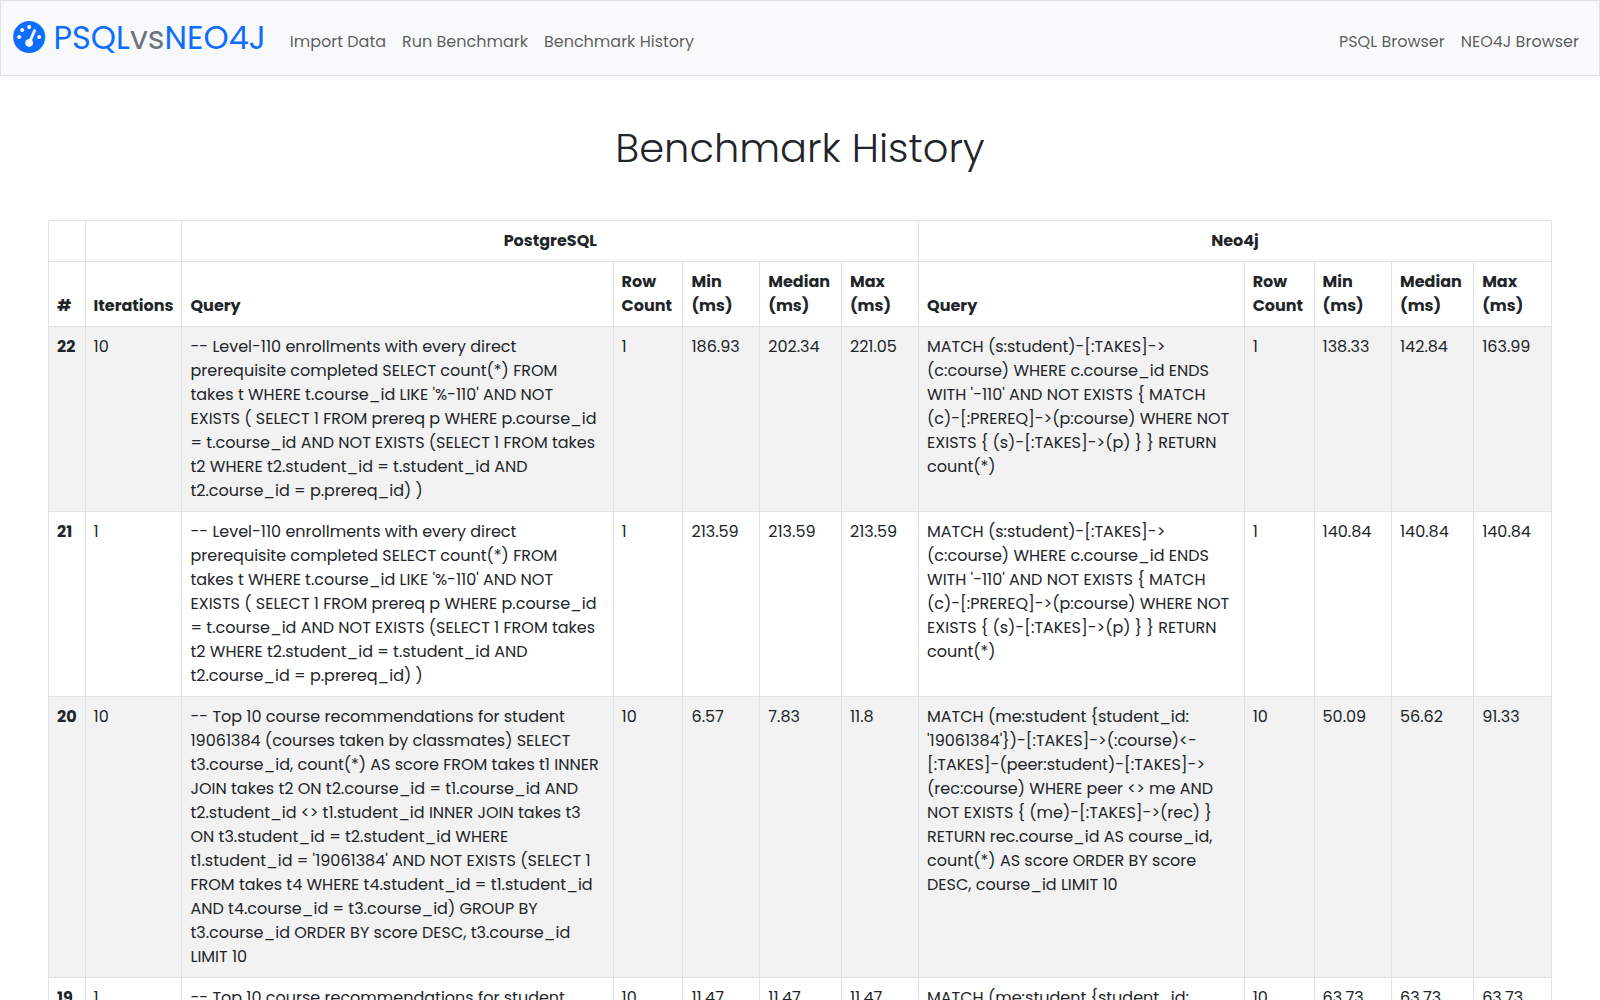
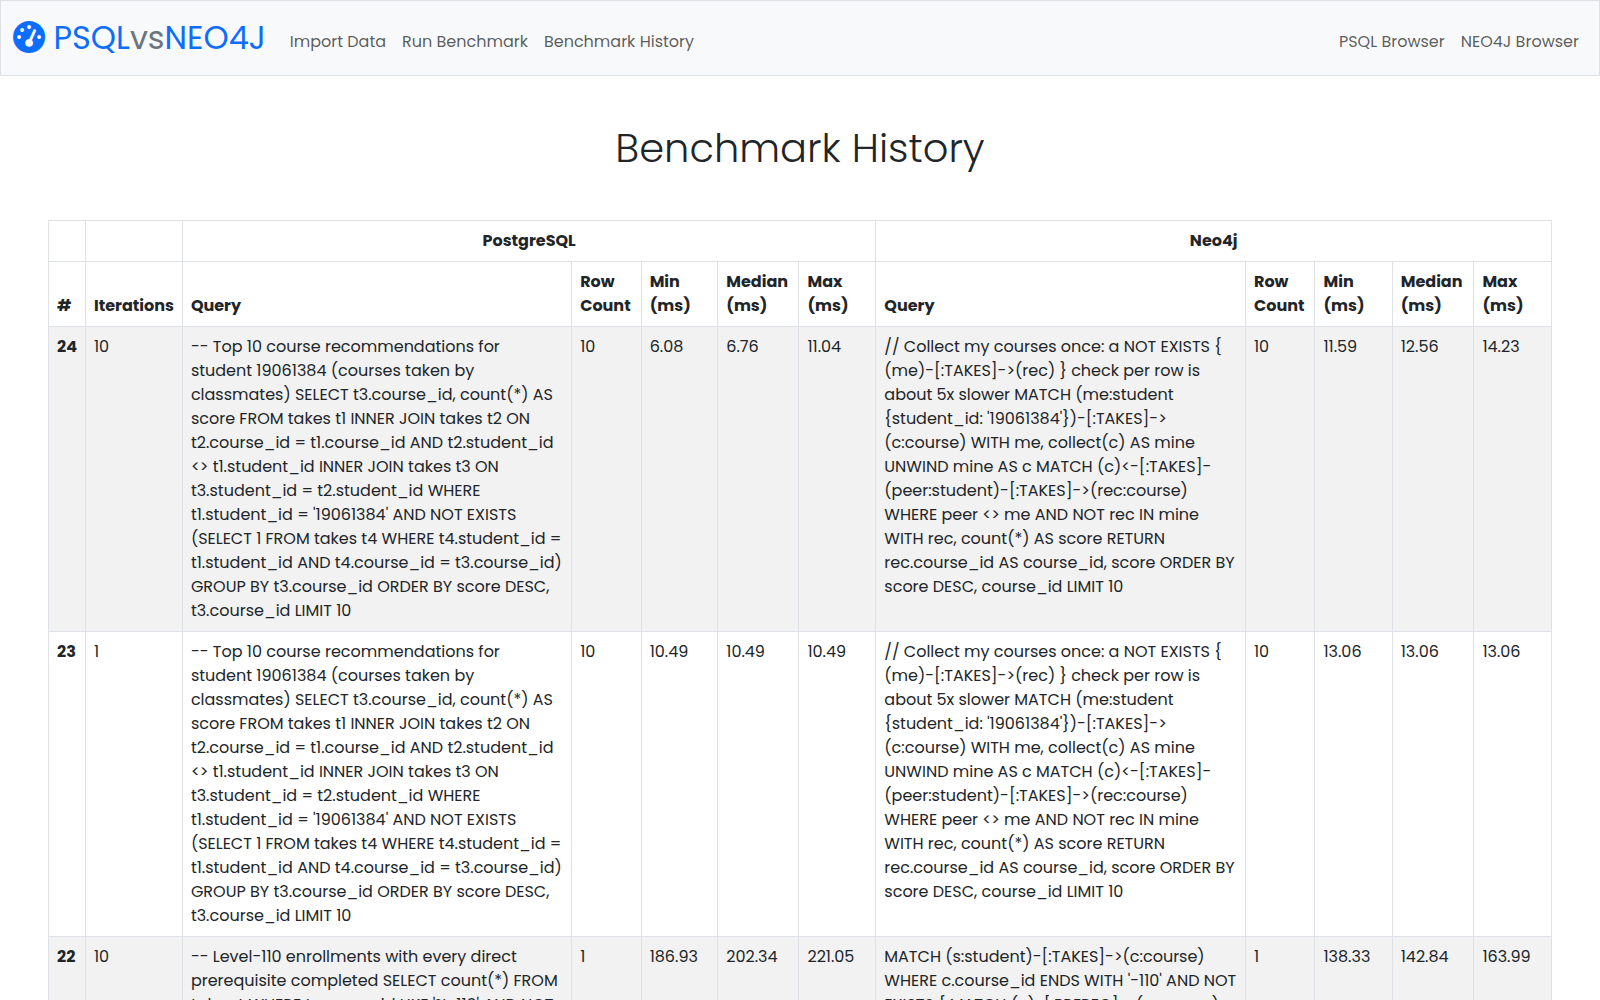
docs: explain where PostgreSQL and Neo4j each win
Compare the storage and execution models, explain why benchmarking
several query shapes matters, and add engine-only timings that separate
Neo4j's fixed per-query cost from traversal work.

diff --git a/README.md b/README.md
@@ -10,7 +10,7 @@
 
 Run the same question as SQL and as Cypher, side by side, and compare how fast PostgreSQL and Neo4j answer it.
 
-[Overview](#overview) • [Getting started](#getting-started) • [Sample benchmarks](#sample-benchmarks) • [How it works](#how-it-works)
+[Overview](#overview) • [Getting started](#getting-started) • [PostgreSQL vs Neo4j](#postgresql-vs-neo4j) • [Sample benchmarks](#sample-benchmarks) • [How it works](#how-it-works)
 
 ![Benchmark History page](docs/images/benchmark-history.png)
 
@@ -70,6 +70,28 @@ Then open http://localhost:5000:
 
 Credentials live in `.env`. `task up` creates it from [`.env.example`](.env.example).
 
+## PostgreSQL vs Neo4j
+
+Both databases can answer the same questions. They store the data differently, and that decides which questions are cheap.
+
+| | PostgreSQL | Neo4j |
+| --- | --- | --- |
+| Data model | Tables of rows. A relationship is a foreign-key value. | Nodes and relationships, both stored as records. |
+| Following a relationship | Matched at query time, with an index lookup or a hash join. | Each node record points to its relationships, so a hop is a pointer lookup ("index-free adjacency"). |
+| How a query runs | Set-based: the planner joins whole tables and picks the strategy. | Pattern-based: start at some nodes, then walk outward. |
+| Cost grows with | The size of the tables involved. | The part of the graph the query touches. |
+| Strong at | Scans, filters, joins and aggregates over many rows. | Multi-hop and variable-depth traversals, paths, neighbourhoods. |
+| Weak at | Recursive queries. Each level is another self-join, and the work piles up with depth. | Whole-dataset aggregates, plus a fixed cost of about 1.5 ms per query. |
+
+### Why benchmark different use cases
+
+- **There is no overall winner.** Run only the aggregate queries and PostgreSQL looks 2–4× faster. Run only shortest path and Neo4j looks 17× faster. Both are true, and each on its own is misleading.
+- **The crossover point is what matters.** On this data, Neo4j only starts winning past about 10 levels of traversal. Knowing which side of that line your real queries fall on is more useful than any single score.
+- **Fixed costs and growth rates are different things.** Neo4j pays more to start each query but less per hop. That matters for an API that makes hundreds of tiny lookups per request, and it doesn't matter for one deep traversal.
+- **How you write the query matters.** The first, natural Cypher for recommendations was 5× slower than an equivalent rewrite. PostgreSQL's planner fixed the same pattern on its own. A benchmark of only one shape would never show this.
+
+Rule of thumb from these results: if most of your queries are reports, filters and aggregates, use PostgreSQL. If they follow relationships to an unknown or large depth (dependency graphs, routes, fraud rings, recommendations at scale), Neo4j earns its keep. Many systems run both.
+
 ## Sample benchmarks
 
 The eleven preloaded query pairs are picked so each database gets cases it should win. Each pair ran once as a warm-up, then 10 more times. Times are medians in milliseconds (min / max are in the history page). Every pair returns exactly the same values on both databases.
@@ -85,7 +107,7 @@ The eleven preloaded query pairs are picked so each database gets cases it shoul
 | 7 | Same, depth ≤ 20 (1,177 courses) | Neo4j | 15.9 | **5.0** | Neo4j, 3.2× |
 | 8 | Same, depth ≤ 30 (3,557 courses) | Neo4j | 94.9 | **10.7** | Neo4j, 8.8× |
 | 9 | Shortest prerequisite path between two courses (28 hops) | Neo4j | 76.5 | **4.5** | Neo4j, 17× |
-| 10 | Top 10 course recommendations from classmates | Neo4j | **7.8** | 56.6 | PostgreSQL, 7.2× |
+| 10 | Top 10 course recommendations from classmates | Neo4j | **6.8** | 12.6 | PostgreSQL, 1.9× |
 | 11 | Level-110 enrollments with all prerequisites completed | Open | 202 | **143** | Neo4j, 1.4× |
 
 The depth sweep (queries 5–8) shows where the lines cross:
@@ -104,9 +126,20 @@ xychart-beta
 What the numbers show:
 
 - **Scans, joins and aggregates belong to PostgreSQL.** Queries 1 and 2 touch most of the data, and set-based hash joins beat following relationships one at a time.
-- **Small lookups also go to PostgreSQL**, even multi-hop ones. With foreign-key indexes, a 3-hop lookup costs under a millisecond. Neo4j pays about 2 ms of fixed overhead per query (transaction and Bolt round trips), which dominates anything this small.
+- **Small lookups are a tie between the engines.** The fixed cost per query decides them. Neo4j pays about 1.5 ms per call before doing any work: about 0.5 ms in the Python driver, and about 1 ms on the server to open and close the transaction. PostgreSQL pays about 0.16 ms. Without that cost, the engines are even (see the table below).
 - **Deep traversals belong to Neo4j.** A recursive CTE keeps every *(course, depth)* pair it reaches, so its work grows with depth. Neo4j walks the graph breadth-first and visits each course once. Past depth 10 the gap widens fast: 3× at depth 20, 9× at depth 30, and 17× for shortest path, where Neo4j searches from both ends.
-- **The surprise is recommendations (query 10).** It's a textbook graph query, but each course has only about 5 students here, so the neighbourhood is small (about 16K rows). PostgreSQL's index joins win at that size. Neo4j Community runs Cypher on its interpreted row-at-a-time runtime; the faster pipelined runtime is Enterprise-only.
+- **Recommendations (query 10) went against expectations.** The first Cypher version checked "did I already take this course?" once per candidate row, about 250K storage reads, and took 57 ms. Collecting my courses once and filtering against that list gives the same result in 12.6 ms. PostgreSQL still wins: its planner turns `NOT EXISTS` into one hash anti-join by itself. And with about 5 students per course, the neighbourhood is small (about 16K rows), so there's little graph to walk. Neo4j Community also lacks the faster query runtime, which is Enterprise-only.
+
+Engine time only, without the fixed cost per query. PostgreSQL time comes from `EXPLAIN (ANALYZE, TIMING OFF)`. Neo4j time is the server time from the driver's result summary, which only reports whole milliseconds.
+
+| # | Query | PostgreSQL engine | Neo4j engine |
+| ---: | --- | ---: | ---: |
+| 4 | Items used by one customer (3 hops) | 0.84 | ~1 |
+| 5 | Depth ≤ 5 | 0.40 | ~1 |
+| 6 | Depth ≤ 10 | 1.30 | ~1 |
+| 7 | Depth ≤ 20 | 18.2 | ~3 |
+| 8 | Depth ≤ 30 | 99.3 | ~7 |
+| 9 | Shortest path | 76.4 | ~2 |
 
 <details>
 <summary>Test setup</summary>
